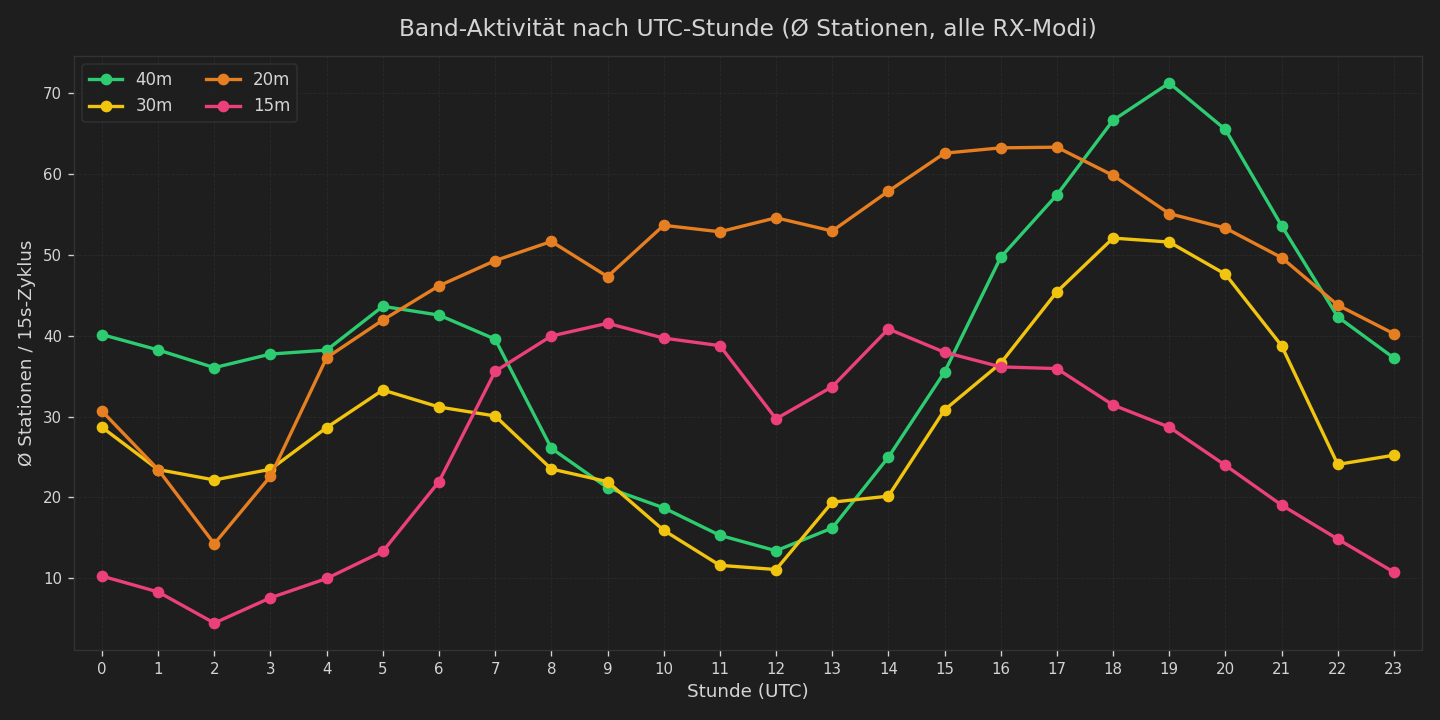
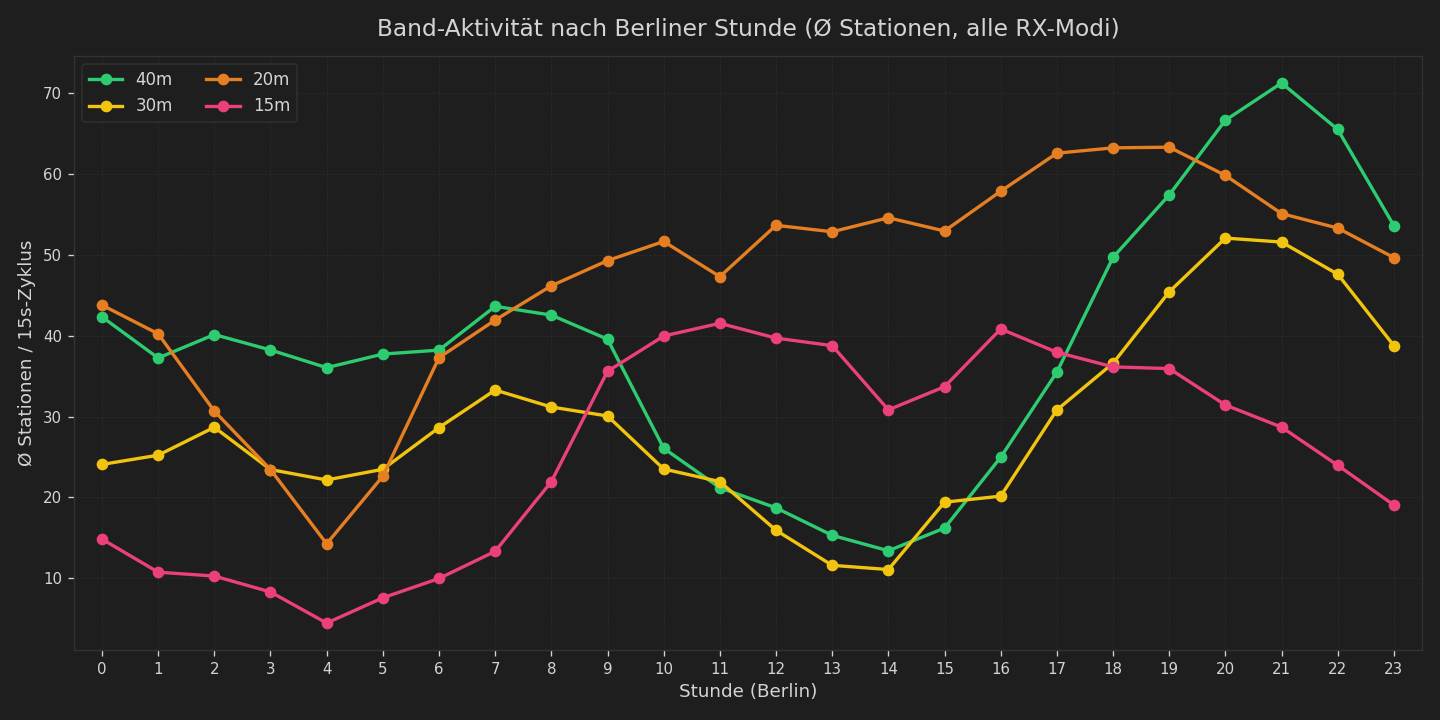
P118 v0.98.03: Berliner Zeit + DST-Awareness im Band-Activity-Script
Mike-Folge-Wunsch nach P117-Sichtung: "können wir berliner zeit machen
aber bitte sommer zeit und winterzeit umstellung im script
berücksichtigen?"

Architektur:
- from zoneinfo import ZoneInfo (Standard-Lib ab Python 3.9)
- Konstante LOCAL_TZ = ZoneInfo("Europe/Berlin")
- Neuer Helper _utc_file_to_local_hour(date_str, utc_hour) → int
  via dt_utc.astimezone(LOCAL_TZ).hour
- aggregate_band_hour aggregiert auf local_hour (statt utc_hour)
- Labels: "Stunde (Berlin)" / "Hour (Berlin)"

Pro File-Datum wird DST-korrekt umgerechnet:
- Sommer (Mai-Okt): UTC+2
- Winter (Nov-März): UTC+1
- Wechsel-Tage automatisch via IANA-Datenbank (zoneinfo kennt die
  komplette Historie, keine manuelle Kalender-Pflege im Code)

Pragmatik DST-Wechsel-Tag: 1 File = 1 lokale Stunde (Stunden-Start
als Repräsentation). Statistisch irrelevant: 2/365 = 0.5% Daten.

Workflow voll durch:
- V1 + V2 Self-Review: 5 Findings ✓
- R1 V4-pro: 0 Blocker, klare Freigabe
- V3 → Code
- Final-R1 V4-pro: ✅ "PUSH FREIGEGEBEN" 0 Mängel

Mike-Folge-Demo zu "hast du datum berücksichtigt": Live-Demo mit
zoneinfo zeigte korrekte Erkennung aller Wechsel-Tage 2024-2026.

V4-pro 50-Cycle-Bilanz: 1 Halluzination (~2% Rate).

Tests: 1804 → 1806 (+2 neue DST-Tests, 10 bestehende angepasst).
- T2-T5, T10: fixes Sommer-Datum "2026-05-24" → Berlin-Stunde UTC+2
- T11 NEU: Winter-Datum "2026-12-15" → UTC+1
- T12 NEU: Helper-Funktion direkt mit Sommer + Winter + DST-Wechsel-
  Tag-Toleranz

Smoke-Test-Ergebnis (Sommerzeit):
[…]

diff --git a/tests/test_p117_band_activity.py b/tests/test_p117_band_activity.py
@@ -1,15 +1,24 @@
-"""P117 (24.05.2026, v0.98.02) — Band-Aktivitäts-Übersicht-Script.
+"""P117 (24.05.2026, v0.98.02) + P118 (v0.98.03) — Band-Aktivitäts-
+Übersicht-Script, Berliner Zeit (DST-aware).
 
-Mike-Wunsch: Standalone-Script `scripts/band_activity_summary.py` für
-Quick-Reference zur Band-Aktivität (vor Park-Trip).
+Mike-Wunsch P117: Standalone-Script `scripts/band_activity_summary.py`
+für Quick-Reference zur Band-Aktivität (vor Park-Trip).
 
-Aggregation: pro `(Band, Stunde)` arithmetisches Mittel der Modus-
-Mittelwerte. Nur Modi mit >= MIN_CYCLES_PER_BUCKET=12 Zyklen für
-die jeweilige Stunde tragen bei.
+Mike-Wunsch P118: Berliner Zeit statt UTC im Plot, Sommer/Winter
+automatisch über zoneinfo (Europe/Berlin).
+
+Aggregation: pro `(Band, lokale Stunde)` arithmetisches Mittel der
+Modus-Mittelwerte. Nur Modi mit >= MIN_CYCLES_PER_BUCKET=12 Zyklen
+tragen bei. UTC-File-Stunde wird via `_utc_file_to_local_hour`
+ins lokale Bucket aggregiert.
+
+Test-Datum-Konvention (für deterministische DST):
+- Sommer-Tests nutzen "2026-05-24" (DST aktiv → UTC+2)
+- Winter-Tests nutzen "2026-12-15" (DST inaktiv → UTC+1)
 
 Test-Coverage:
 - T1 Leerer stats_dir → 0 Bänder
-- T2 1 Band, 1 Modus mit 12 Cycles → 1 Stunde mit Wert
+- T2 1 Band, 1 Modus mit 12 Cycles (Sommer) → Wert in UTC+2-Stunde
 - T3 1 Band, 1 Modus mit 11 Cycles → KEIN Wert (Filter)
 - T4 1 Band, 3 Modi je 12 Cycles → arithmetisches Mittel
 - T5 1 Band, 2 Modi qualifiziert + 1 Modus zu wenig Cycles → Mittel aus 2
@@ -17,6 +26,9 @@ Test-Coverage:
 - T7 list_available_bands ignoriert Dirs ohne FT8/-Subdir
 - T8 generate_plot returnt 0 bei leerem Stats-Dir
 - T9 generate_plot erstellt PNG-File
+- T10 Stunden ohne Daten → None
+- T11 P118 Winter-Datum → UTC+1 (statt UTC+2)
+- T12 P118 Helper `_utc_file_to_local_hour` direkt (Sommer + Winter)
 """
 from __future__ import annotations
 
@@ -52,57 +64,53 @@ def test_t1_empty_stats_no_bands(tmp_path):
 
 
 def test_t2_one_mode_threshold_exact_yields_value(tmp_path):
-    """1 Band, 1 Modus mit exakt 12 Cycles → Stunde hat Wert (= station-count)."""
+    """P118: 1 Band, 1 Modus, Sommer-Datum, UTC-14 → Berlin-16 (UTC+2)."""
     from band_activity_summary import aggregate_band_hour
     _write_stats_file(
         tmp_path / "Normal" / "20m" / "FT8",
         date="2026-05-24", hour=14, n_cycles=12, stations=30)
     result = aggregate_band_hour(tmp_path, "20m")
-    assert result[14] == 30.0  # Mittel aus 1 Modus = 30
+    assert result[16] == 30.0  # Berlin-Sommer = UTC+2
+    assert result[14] is None  # UTC-14 ist nicht mehr key
 
 
 def test_t3_one_mode_below_threshold_no_value(tmp_path):
-    """1 Band, 1 Modus mit 11 Cycles → Stunde 14 hat None (Filter greift)."""
+    """1 Band, 1 Modus mit 11 Cycles → keine Berlin-Stunde hat Wert."""
     from band_activity_summary import aggregate_band_hour
     _write_stats_file(
         tmp_path / "Normal" / "20m" / "FT8",
         date="2026-05-24", hour=14, n_cycles=11, stations=30)
     result = aggregate_band_hour(tmp_path, "20m")
+    assert result[16] is None  # Berlin-Sommer = UTC+2
     assert result[14] is None
 
 
 def test_t4_three_modes_each_threshold_arithmetic_mean(tmp_path):
-    """3 Modi je 12 Cycles mit unterschiedlichen Stationen → arithmetisches
-    Mittel der Modus-Means."""
+    """P118: 3 Modi je 12 Cycles, Sommer → arithmetisches Mittel in Berlin-Stunde."""
     from band_activity_summary import aggregate_band_hour
-    # Normal: 30 Stationen/Cycle
     _write_stats_file(tmp_path / "Normal" / "20m" / "FT8",
                       "2026-05-24", 14, 12, stations=30)
-    # Diversity_Normal: 36
     _write_stats_file(tmp_path / "Diversity_Normal" / "20m" / "FT8",
                       "2026-05-24", 14, 12, stations=36)
-    # Diversity_Dx: 24 (DX filtert SNR<-10)
     _write_stats_file(tmp_path / "Diversity_Dx" / "20m" / "FT8",
                       "2026-05-24", 14, 12, stations=24)
     result = aggregate_band_hour(tmp_path, "20m")
-    # Mittel = (30 + 36 + 24) / 3 = 30
-    assert result[14] == pytest.approx(30.0)
+    # Mittel = (30 + 36 + 24) / 3 = 30 — in Berlin-Stunde 16 (UTC+2)
+    assert result[16] == pytest.approx(30.0)
 
 
 def test_t5_one_mode_below_threshold_uses_others(tmp_path):
-    """2 Modi qualifiziert + 1 Modus zu wenig Cycles → Mittel aus 2 Modi
-    (Mike-Spec: durch ANZAHL vorhandener Modi, nicht stur durch 3)."""
+    """P118: 2 Modi qualifiziert + 1 zu wenig Cycles → Mittel aus 2 in Berlin-Stunde."""
     from band_activity_summary import aggregate_band_hour
     _write_stats_file(tmp_path / "Normal" / "20m" / "FT8",
                       "2026-05-24", 14, 12, stations=30)
     _write_stats_file(tmp_path / "Diversity_Normal" / "20m" / "FT8",
                       "2026-05-24", 14, 12, stations=40)
-    # DX nur 5 Cycles → Filter greift, DX wird ignoriert
     _write_stats_file(tmp_path / "Diversity_Dx" / "20m" / "FT8",
-                      "2026-05-24", 14, 5, stations=100)  # Wert egal
+                      "2026-05-24", 14, 5, stations=100)
     result = aggregate_band_hour(tmp_path, "20m")
-    # Mittel = (30 + 40) / 2 = 35 (DX ignoriert)
-    assert result[14] == pytest.approx(35.0)
+    # Mittel = (30 + 40) / 2 = 35 in Berlin-Stunde 16 (UTC+2)
+    assert result[16] == pytest.approx(35.0)
 
 
 # ── T6-T7: Bänder-Liste + Sortierung ────────────────────────────
@@ -162,11 +170,42 @@ def test_t9_generate_plot_writes_png_when_data_present(tmp_path):
 
 
 def test_t10_hour_with_no_data_yields_none(tmp_path):
-    """Stunde ohne Daten in irgendeinem Modus → None im Result."""
+    """P118: Stunde ohne Daten → None. Sommer-Datum UTC-14 → Berlin-16."""
     from band_activity_summary import aggregate_band_hour
     _write_stats_file(tmp_path / "Normal" / "20m" / "FT8",
                       "2026-05-24", 14, 12, stations=30)
     result = aggregate_band_hour(tmp_path, "20m")
-    assert result[14] is not None  # 14 hat Daten
-    assert result[3] is None       # 03 nicht
-    assert result[20] is None      # 20 nicht
+    assert result[16] is not None  # Berlin-Sommer 14 UTC → 16
+    assert result[3] is None       # 03 hat keine Daten
+    assert result[20] is None      # 20 hat keine Daten
+
+
+# ── P118: DST-Awareness (Berliner Zeit) ────────────────────────────
+
+
+def test_t11_winter_date_uses_utc_plus_1(tmp_path):
+    """P118: Winter-Datum (DST inaktiv) → UTC+1, nicht UTC+2."""
+    from band_activity_summary import aggregate_band_hour
+    _write_stats_file(tmp_path / "Normal" / "20m" / "FT8",
+                      date="2026-12-15", hour=14, n_cycles=12, stations=30)
+    result = aggregate_band_hour(tmp_path, "20m")
+    # Berlin-Winter = UTC+1 → Berlin-Stunde 15
+    assert result[15] == 30.0
+    assert result[16] is None  # nicht UTC+2 (das wäre Sommer)
+
+
+def test_t12_helper_utc_to_local_hour_sommer_und_winter():
+    """P118: Helper-Funktion direkt mit bekannten DST-Grenzfällen."""
+    from band_activity_summary import _utc_file_to_local_hour
+    # Sommer (DST aktiv, UTC+2)
+    assert _utc_file_to_local_hour("2026-05-24", 0) == 2
+    assert _utc_file_to_local_hour("2026-05-24", 14) == 16
+    assert _utc_file_to_local_hour("2026-05-24", 22) == 0  # rollover
+    # Winter (DST inaktiv, UTC+1)
+    assert _utc_file_to_local_hour("2026-12-15", 0) == 1
+    assert _utc_file_to_local_hour("2026-12-15", 14) == 15
+    assert _utc_file_to_local_hour("2026-12-15", 23) == 0  # rollover
+    # DST-Wechsel-Tage (Edge-Case): Sommer→Winter Ende Oktober
+    # 26.10.2025 02:00 UTC + DST-Wechsel rückwärts: Berlin = 03:00 Sommer dann 02:00 Winter
+    # Pragmatisch: 02 UTC am Wechsel-Tag landet in Berlin-Stunde irgendwo zwischen 2-4
+    assert _utc_file_to_local_hour("2026-10-25", 12) in (13, 14)  # Wechsel-Tag tolerant

diff --git a/scripts/band_activity_summary.py b/scripts/band_activity_summary.py
@@ -30,7 +30,9 @@ from __future__ import annotations
 
 import re
 import sys
+from datetime import datetime, timezone
 from pathlib import Path
+from zoneinfo import ZoneInfo
 
 import matplotlib
 matplotlib.use("Agg")  # headless, kein Display-Server nötig
@@ -45,6 +47,12 @@ OUTPUT_DE = BASE_DIR / "auswertung" / "bandaktivitaet.png"
 OUTPUT_EN = BASE_DIR / "auswertung" / "en" / "band_activity.png"
 
 RX_MODES = ["Normal", "Diversity_Normal", "Diversity_Dx"]
+
+# P118 (v0.98.03): Lokale Zeitzone für X-Achse. Stats werden in UTC
+# gespeichert, Plot zeigt Berliner Zeit (Sommer UTC+2, Winter UTC+1).
+# DST-Wechsel automatisch über zoneinfo (tzdata aus /usr/share/zoneinfo
+# auf macOS nativ verfügbar).
+LOCAL_TZ = ZoneInfo("Europe/Berlin")
 
 # R1-Feinjustierung (Mike-Field-Datenbasis): 12 Zyklen = ~3 Min Empfang.
 # Höher (30) würde junge Bänder wie 15m mit nur 5-9 Tagen Datenbasis
@@ -88,12 +96,39 @@ FILE_RE = re.compile(r"^(\d{4}-\d{2}-\d{2})_(\d{2})\.md$")
 # ── Aggregation ─────────────────────────────────────────────────────
 
 
+def _utc_file_to_local_hour(date_str: str, utc_hour: int) -> int:
+    """P118 (v0.98.03): UTC-Stunde aus Dateiname → lokale Berliner Stunde.
+
+    DST-aware via zoneinfo. Stats-Files heißen `YYYY-MM-DD_HH.md` wo
+    HH die UTC-Stunde ist. Berliner Stunde hängt vom Datum ab (Sommer
+    UTC+2, Winter UTC+1).
+
+    Edge-Case DST-Wechsel-Tag (2/Jahr): Cycles innerhalb einer File
+    landen alle in derselben lokalen Stunde (Stunden-Start als
+    Repräsentation). Statistisch irrelevant (0.5% Daten).
+
+    Args:
+        date_str: "YYYY-MM-DD" aus Dateiname.
+        utc_hour: UTC-Stunde 0-23 aus Dateiname.
+
+    Returns:
+        Lokale Berliner Stunde 0-23.
+    """
+    year, month, day = map(int, date_str.split("-"))
+    dt_utc = datetime(year, month, day, utc_hour, tzinfo=timezone.utc)
+    return dt_utc.astimezone(LOCAL_TZ).hour
+
+
 def aggregate_band_hour(stats_dir: Path, band: str) -> dict[int, float | None]:
     """Pro Band: dict[hour] → mittlere Stationen über vorhandene Modi.
 
+    Stunden in BERLINER ZEIT (P118 v0.98.03, DST-aware). UTC-File-
+    Stunden werden via `_utc_file_to_local_hour` ins lokale Bucket
+    aggregiert.
+
     Mittelung-Strategie:
-        Pro Modus → Pooled-Mean Stationen über alle Tage je Stunde.
-        Pro Stunde → arithmetisches Mittel der Modi-Mittelwerte
+        Pro Modus → Pooled-Mean Stationen über alle Tage je lokale Stunde.
+        Pro lokale Stunde → arithmetisches Mittel der Modi-Mittelwerte
         (nur Modi mit >= MIN_CYCLES_PER_BUCKET Zyklen für diese Stunde).
         Wenn 0 Modi qualifizieren → None (Lücke im Plot).
 
@@ -102,9 +137,9 @@ def aggregate_band_hour(stats_dir: Path, band: str) -> dict[int, float | None]:
         band: Band-Name wie "20m", "40m", etc.
 
     Returns:
-        dict[hour_int] → float | None
+        dict[local_hour_int] → float | None
     """
-    # mode -> hour -> (sum_stations, n_cycles)
+    # mode -> local_hour -> (sum_stations, n_cycles)
     per_mode_hour: dict[str, dict[int, tuple[int, int]]] = {}
     for mode in RX_MODES:
         mode_dir = stats_dir / mode / band / "FT8"
@@ -115,7 +150,12 @@ def aggregate_band_hour(stats_dir: Path, band: str) -> dict[int, float | None]:
             fm = FILE_RE.match(f.name)
             if not fm:
                 continue
-            hour = int(fm.group(2))
+            date_str = fm.group(1)
+            utc_hour = int(fm.group(2))
+            try:
+                local_hour = _utc_file_to_local_hour(date_str, utc_hour)
+            except (ValueError, OverflowError):
+                continue  # defekter Dateiname, überspringen
             try:
                 content = f.read_text(encoding="utf-8")
             except OSError:
@@ -123,8 +163,8 @@ def aggregate_band_hour(stats_dir: Path, band: str) -> dict[int, float | None]:
             for line in content.splitlines():
                 rm = ROW_RE.match(line)
                 if rm:
-                    sum_st, n_cyc = per_mode_hour[mode].get(hour, (0, 0))
-                    per_mode_hour[mode][hour] = (
+                    sum_st, n_cyc = per_mode_hour[mode].get(local_hour, (0, 0))
+                    per_mode_hour[mode][local_hour] = (
                         sum_st + int(rm.group(2)), n_cyc + 1)
 
     result: dict[int, float | None] = {}
@@ -177,14 +217,14 @@ def generate_plot(stats_dir: Path, output: Path, lang: str = "de") -> int:
         return 0
 
     if lang == "de":
-        title = ("Band-Aktivität nach UTC-Stunde "
+        title = ("Band-Aktivität nach Berliner Stunde "
                  "(Ø Stationen, alle RX-Modi)")
-        xlabel = "Stunde (UTC)"
+        xlabel = "Stunde (Berlin)"
         ylabel = "Ø Stationen / 15s-Zyklus"
     else:
-        title = ("Band activity by UTC hour "
+        title = ("Band activity by Berlin hour "
                  "(avg stations, all RX modes)")
-        xlabel = "Hour (UTC)"
+        xlabel = "Hour (Berlin)"
         ylabel = "Avg stations / 15s cycle"
 
     fig, ax = plt.subplots(figsize=(12, 6), facecolor=DARK_BG)

diff --git a/main.py b/main.py
@@ -13,7 +13,7 @@ import atexit
 import signal
 from pathlib import Path
 
-APP_VERSION = "0.98.02"
+APP_VERSION = "0.98.03"
 
 # ── P43: Activity Monitor zeigt Prozess-Namen statt nur "Python" ──
 # Bei der P30-Memory-Leak-Diagnose 12.05. konnte Mike SimpleFT8 nicht
